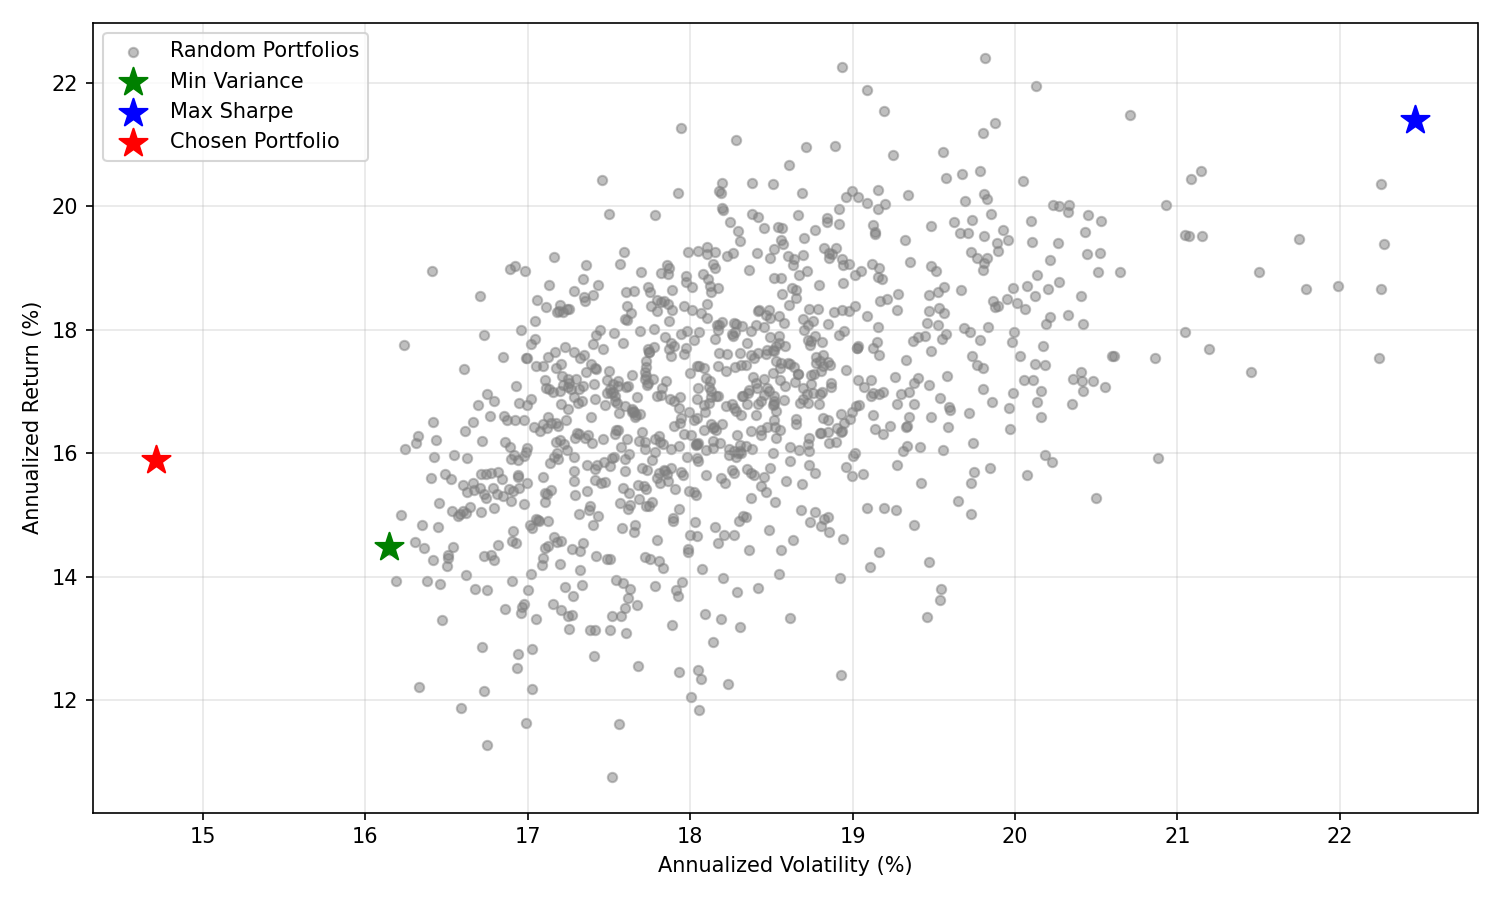
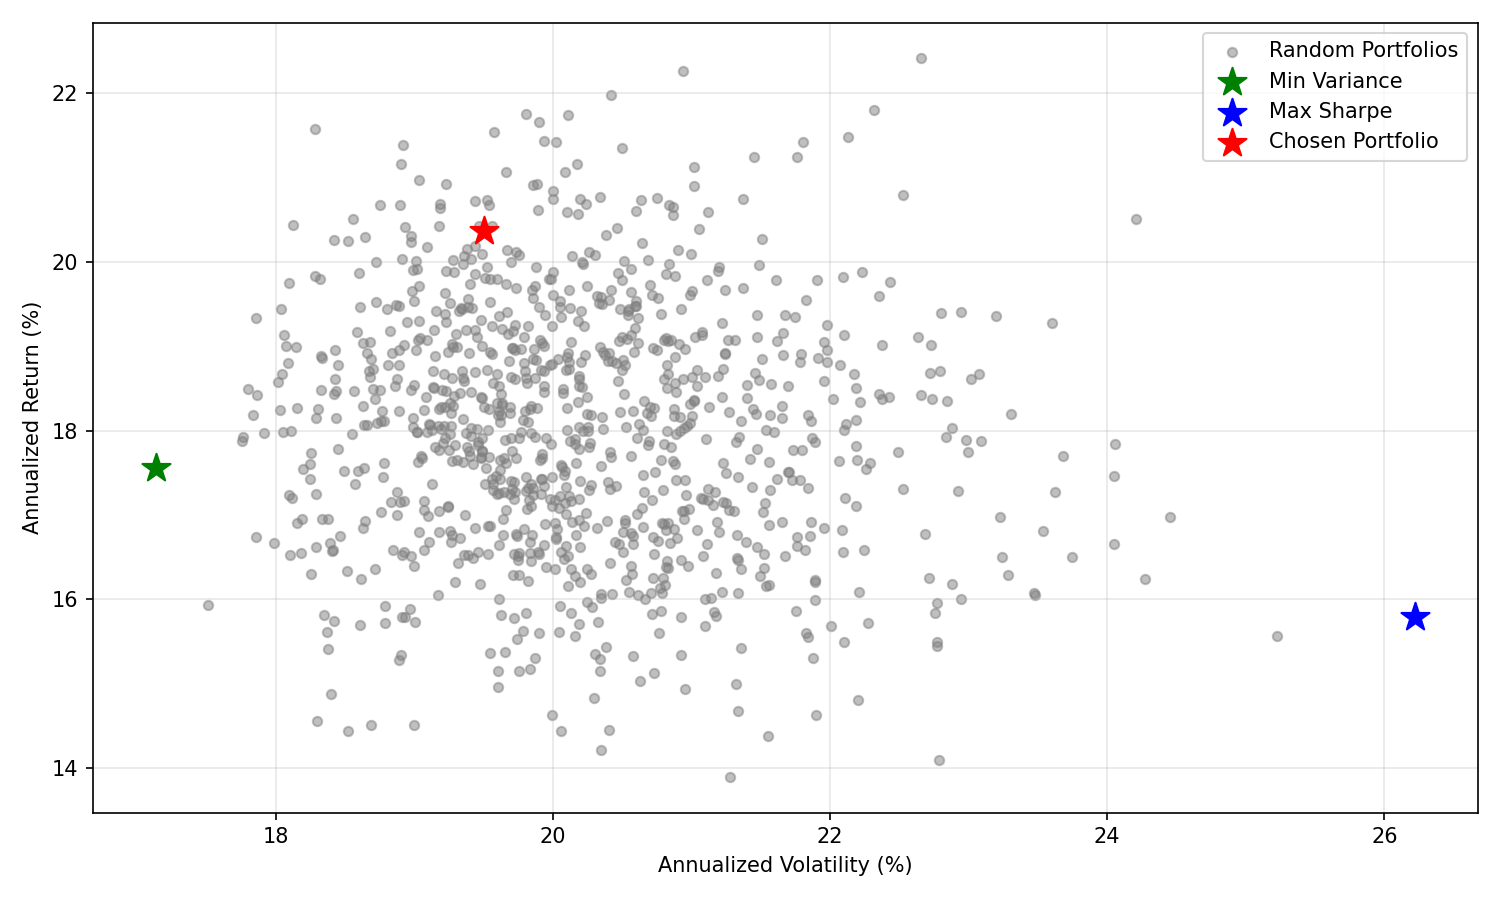
maat 1

diff --git a/optimizer.py b/optimizer.py
@@ -3,22 +3,26 @@ import numpy as np
 import matplotlib.pyplot as plt
 import seaborn as sns
 import requests
+from sklearn.pipeline import Pipeline
 
+from skfolio.pre_selection import DropCorrelated, DropZeroVariance, SelectKExtremes
 from skfolio.optimization import MeanRisk, ObjectiveFunction
 from skfolio.prior import EmpiricalPrior
 from skfolio.preprocessing import prices_to_returns
 from skfolio.moments.covariance import LedoitWolf
+from skfolio.measures import PerfMeasure
 
 np.random.seed(42)
 
 selic = pd.DataFrame(requests.get("https://api.bcb.gov.br/dados/serie/bcdata.sgs.4189/dados?formato=json").json())
 
 N_STOCKS = 18
-K_MULTIPLIER = 3
 RISK_FREE_RATE = float(selic['valor'].iloc[-1]) / 100
 
 df = pd.read_json("b3_stocks.json")
 df = df[(df["VALUE INVESTING SCORE"] > 60) & (df["TICKER"].str.endswith("3"))]
+
+print(df['TICKER'].tolist())
 
 price_data = [
     {"TICKER": row["TICKER"], "DATA": price_entry["DATA"], "PRECO": price_entry["PRECO"]}
@@ -27,43 +31,57 @@ price_data = [
 price_p = pd.DataFrame(price_data).pivot_table(index="DATA", columns="TICKER", values="PRECO", aggfunc="last")
 price_p.index = pd.to_datetime(price_p.index, dayfirst=True)
 
-# picks the top scoring stocks (no corr based)
-# need to update the file to be used after the picker as been made so i can optimize the weights arround it with a proper weight balancing model (hierarchical risk parity)
-K = K_MULTIPLIER * N_STOCKS
-top_k_tickers = df.sort_values("VALUE INVESTING SCORE", ascending=False).head(K)["TICKER"]
-X_prices = price_p[top_k_tickers].resample("ME").last().ffill().dropna(axis=1)
-X_returns = prices_to_returns(X_prices)
+X_prices_all = price_p.resample("ME").last().ffill().dropna(axis=1)
+X_returns_candidates = prices_to_returns(X_prices_all)
 
-scores = df.set_index("TICKER")["VALUE INVESTING SCORE"].reindex(X_returns.columns)
+all_tickers = X_returns_candidates.columns.tolist()
+print(f"Initial candidates: {len(all_tickers)} stocks")
+
+# Use sklearn Pipeline
+pre_selection = Pipeline([
+    ("drop_zero_var", DropZeroVariance()),
+    ("drop_corr", DropCorrelated(threshold=0.95, absolute=True)),
+    ("select_k", SelectKExtremes(k=N_STOCKS, measure=PerfMeasure.MEAN, highest=True)),
+])
+
+pre_selection.fit(X_returns_candidates)
+
+steps = list(pre_selection.named_steps.values())
+selected_tickers = all_tickers
+for step in steps:
+    selected_tickers = [t for t, m in zip(selected_tickers, step.get_support()) if m]
+
+X_returns_selected = X_returns_candidates[selected_tickers]
+
+scores = df.set_index("TICKER")["VALUE INVESTING SCORE"].reindex(selected_tickers)
 w_base = scores.values / scores.sum()
 
 model = MeanRisk(
-    objective_function=ObjectiveFunction.MAXIMIZE_UTILITY,
+    objective_function=ObjectiveFunction.MAXIMIZE_RETURN,
     prior_estimator=EmpiricalPrior(
         covariance_estimator=LedoitWolf()
     ),
     risk_aversion=0.35,
     l2_coef=0.01,
     target_weights=w_base,
-    min_weights=0.02,
-    max_weights=0.06,
+    max_weights=0.08,
+    min_weights=0.033,
 )
-model.fit(X_returns)
+model.fit(X_returns_selected)
 weights = model.weights_
 
 results = pd.DataFrame({
-    "TICKER": X_returns.columns,
+    "TICKER": X_returns_selected.columns,
     "WEIGHT": (weights / weights.sum() * 1000).astype(int)
-}).sort_values("WEIGHT", ascending=False).head(N_STOCKS)
+}).sort_values("WEIGHT", ascending=False)
 
 results["ALLOCATION (%)"] = (results["WEIGHT"] / results["WEIGHT"].sum() * 100).round(4)
 print(results[["TICKER", "WEIGHT", "ALLOCATION (%)"]])
 
-selected_tickers = results["TICKER"].tolist()
-weights_series = pd.Series(weights, index=X_returns.columns)
+weights_series = pd.Series(weights, index=X_returns_selected.columns)
 selected_weights = weights_series[selected_tickers].values
 
-X_returns_selected = X_returns[selected_tickers]
+X_returns_selected = X_returns_selected[selected_tickers]
 
 generate_graphs = True
 if generate_graphs:
@@ -118,3 +136,5 @@ if generate_graphs:
 
     print(f"return: {opt_return * 12 * 100:.2f}%")
     print(f"volatility: {opt_vol * np.sqrt(12) * 100:.2f}%")
+
+    # ma'at 1

diff --git a/README.md b/README.md
@@ -1,6 +1,6 @@
 # Research
 
-This repository is dedicated to research market models that will be used in the Mansa project to generate signals for the Quantamental model (Ogum), automatic stock selection and wallet building (Ma'at), and wallet rebalancing for optimized DCA (Thoth), containing documentation, tests and raw files used for the creation of those.
+This repository is dedicated to research market models that will be used in the Mansa project to generate signals for the Quantamental model (Ogum), portfolio building and portfolio optimization (Ma'at), and portfolio rebalancing for optimized DCA (Thoth), containing documentation, tests and raw files used for the creation of those.
 
 ## License
 Mansa Team's MODIFIED GPL 3.0 License. See LICENSE for details.